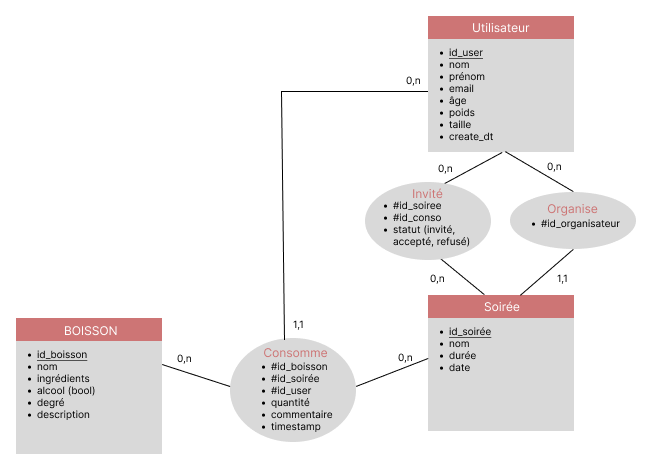
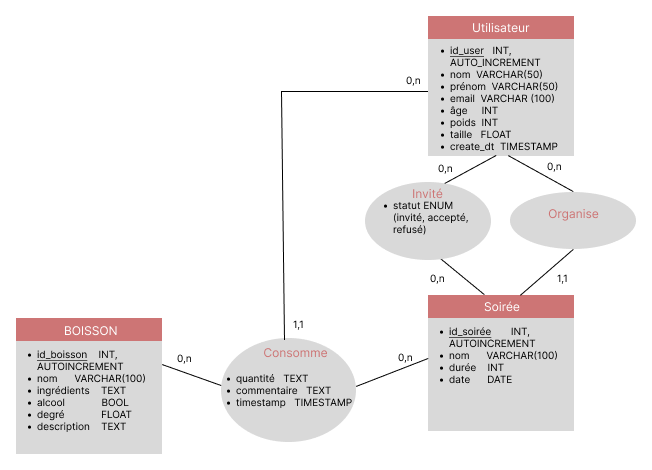
changement readme

diff --git a/Readme.md b/Readme.md
@@ -12,6 +12,9 @@ Ce projet est une application web sociale permettant de créer et de suivre des 
 
 ![MCD.png](static/images/MCD.png)
 
+# MLD
+
+![MLD.png](static/images/MLD.png) 
 # Découpage des routes
 
 - / : Accueil, présentation rapide et accès aux soirées en cours ou passées.
